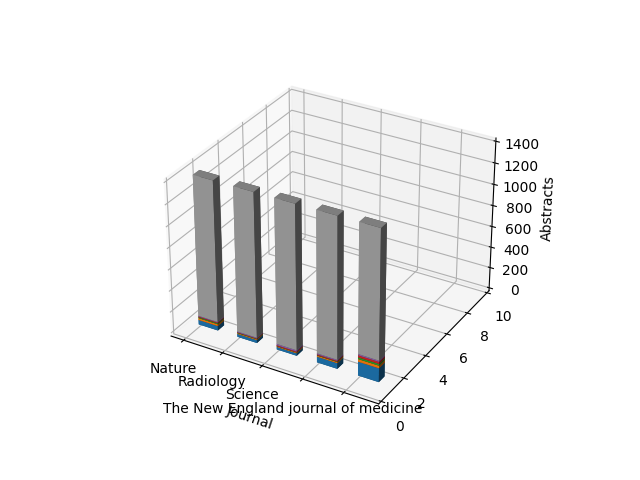
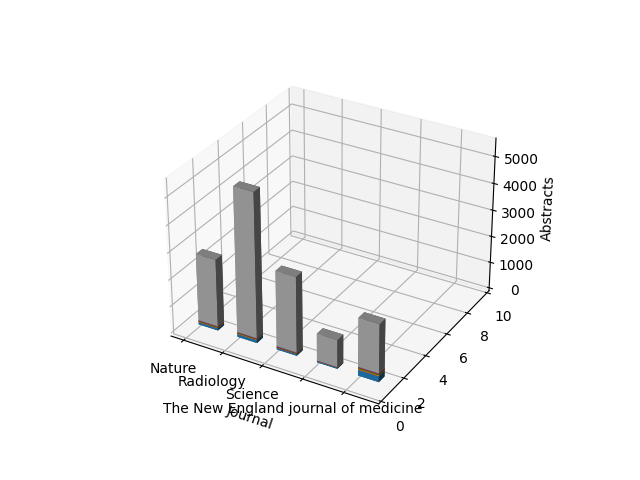
updating viz to take year segment

diff --git a/Code/pubmed-gpt-viz.py b/Code/pubmed-gpt-viz.py
@@ -55,9 +55,8 @@ for i in range(yr_grouped.shape[1]-1):
 plt.savefig(viz_dir + "Years-3D.png")
 
 # by journal
-jr_df_sample = read_csv(data_dir + "journal-sample.csv")
 jr_grouped = (
-    jr_df_sample.groupby(["journal", "Legend"]).size().unstack()
+    yr_df_sample.groupby(["journal", "Legend"]).size().unstack()
 ).reset_index()
 tick_labels = jr_grouped["journal"].astype(str)
 jr_grouped.plot(kind="bar", stacked=True, color=colors, figsize=(20, 10))
@@ -94,11 +93,17 @@ plt.savefig(viz_dir + "Journals-3D.png")
 
 # by segment
 abs_df = read_csv(data_dir + "abstracts.csv")
-abs_grouped = (
-    abs_df.groupby(["segment", "Legend"]).size().unstack()
+seg_df_sample = abs_df.merge(
+    yr_df_sample[["article_url", "year_range", "url"]],
+    on=["article_url", "year_range", "url"],
+    how="inner",
+)
+seg_grouped = (
+    seg_df_sample.groupby(["segment", "Legend"]).size().unstack()
 ).reset_index()
-tick_labels = abs_grouped["segment"].astype(str)
-abs_grouped.plot(kind="bar", stacked=True, color=colors, figsize=(20, 10))
+seg_grouped["segment"] = seg_grouped["segment"].astype(str)
+tick_labels = seg_grouped["segment"].astype(str)
+seg_grouped.plot(kind="bar", stacked=True, color=colors, figsize=(20, 10))
 
 plt.xlabel("Segment")
 plt.xticks(range(len(tick_labels)), tick_labels, rotation=0)
@@ -111,21 +116,21 @@ fig = plt.figure()
 ax = fig.add_subplot(111, projection="3d")
 
 ax.set_xlabel("Segment")
-ax.set_xticklabels(abs_grouped["segment"])
+ax.set_xticklabels(seg_grouped["segment"])
 ax.set_zlabel("Abstracts")
 ax.set_ylim3d(0,10)
 
-dz = zeros(abs_grouped.shape[0])
-for i in range(abs_grouped.shape[1]-1):
+dz = zeros(seg_grouped.shape[0])
+for i in range(seg_grouped.shape[1]-1):
     ax.bar3d(
-        abs_grouped.index, # starting point for x
+        seg_grouped.index, # starting point for x
         1, # starting point for y
         dz, # starting point for z
         0.5, # width of bar
         0.5, # depth of bar
-        abs_grouped.iloc[:, i+1], # height of bar
+        seg_grouped.iloc[:, i+1], # height of bar
         color=colors[i]
     )
-    dz += abs_grouped.iloc[:, i+1]
+    dz += seg_grouped.iloc[:, i+1]
 
 plt.savefig(viz_dir + "Segments-3D.png")

diff --git a/Scrap/abstracts-analysis.py b/Scrap/abstracts-analysis.py
@@ -1,29 +1,52 @@
 from pandas import read_csv, set_option
 from os import getcwd
+import matplotlib.pyplot as plt
 
 # set_option('display.width', None)
+
+colors = [
+    "#1f77b4", # blue
+    "#ff7f0e", # orange
+    "#2ca02c", # green
+    "#d62728", # red
+    "#9467bd", # purple
+    "#a5a5a5" # grey
+]
 
 dir = getcwd()
 data_dir = dir.replace("Scrap", "Data\\")
 abs_df = read_csv(data_dir + "abstracts.csv")
 yr_df_sample = read_csv(data_dir + "year-sample.csv")
 
-
+# by segment
+abs_df = read_csv(data_dir + "abstracts.csv")
 seg_df_sample = abs_df.merge(
     yr_df_sample[["article_url", "year_range", "url"]],
     on=["article_url", "year_range", "url"],
     how="inner",
 )
+seg_grouped = (
+    seg_df_sample.groupby(["segment", "Legend"]).size().unstack()
+).reset_index()
+seg_grouped["segment"] = seg_grouped["segment"].astype(str)
 
-print("Instances in year-sample.csv: ", len(yr_df_sample))
-print("Instances in segment sample: ", len(seg_df_sample))
-print("Missing instances: ", abs((len(yr_df_sample) * 3) - len(seg_df_sample)))
-print("")
+# Print the value counts of the "Legend" column
+print(seg_grouped)
 
-# Create a boolean mask that identifies the duplicate rows
-duplicate_mask = seg_df_sample.duplicated(subset=['article_url', 'year_range', 'url', 'segment'])
+tick_labels = seg_grouped["segment"].astype(str)
+seg_grouped.plot(kind="bar", stacked=True, color=colors, figsize=(20, 10))
 
-# Index the dataframe using the duplicate_mask to print out the duplicate rows
-duplicate_rows = seg_df_sample[duplicate_mask]
-print(len(duplicate_rows))
-print(duplicate_rows)
+plt.xlabel("Segment")
+plt.xticks(range(len(tick_labels)), tick_labels, rotation=0)
+plt.ylabel("Number of Abstracts")
+plt.title("Real published extracts evaluated by AI generated text detector")
+plt.show()
+
+# by journal
+jr_grouped = (
+    yr_df_sample.groupby(["journal", "Legend"]).size().unstack()
+).reset_index()
+tick_labels = jr_grouped["journal"].astype(str)
+jr_grouped.plot(kind="bar", stacked=True, color=colors, figsize=(20, 10))
+
+print(jr_grouped)
